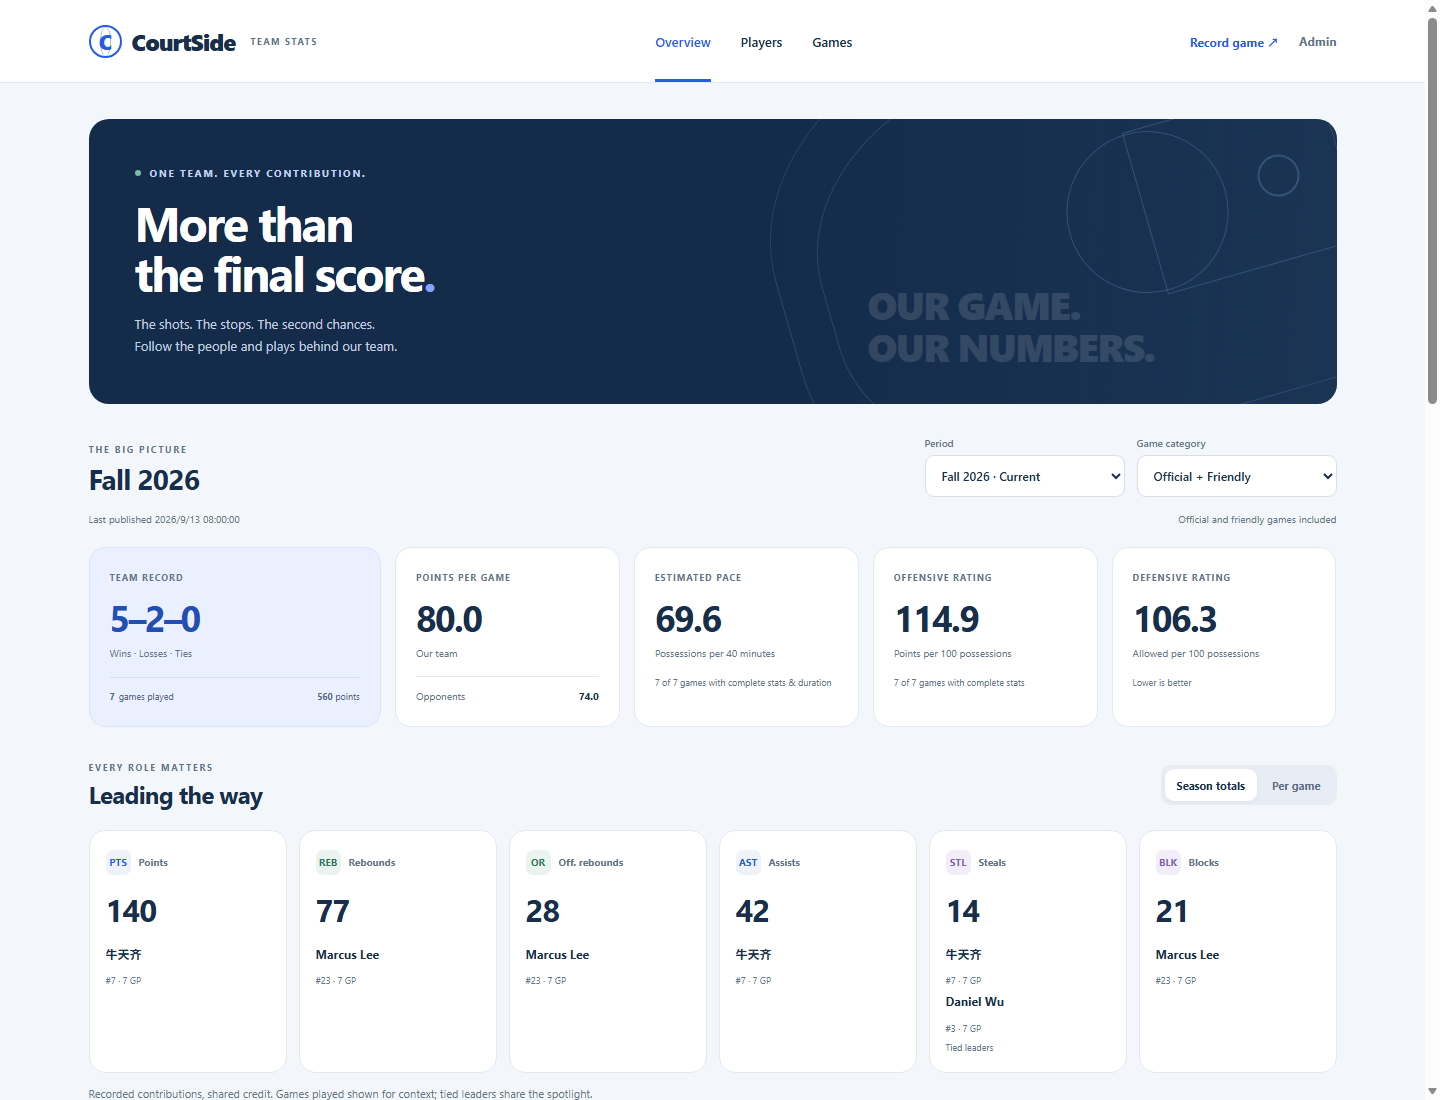
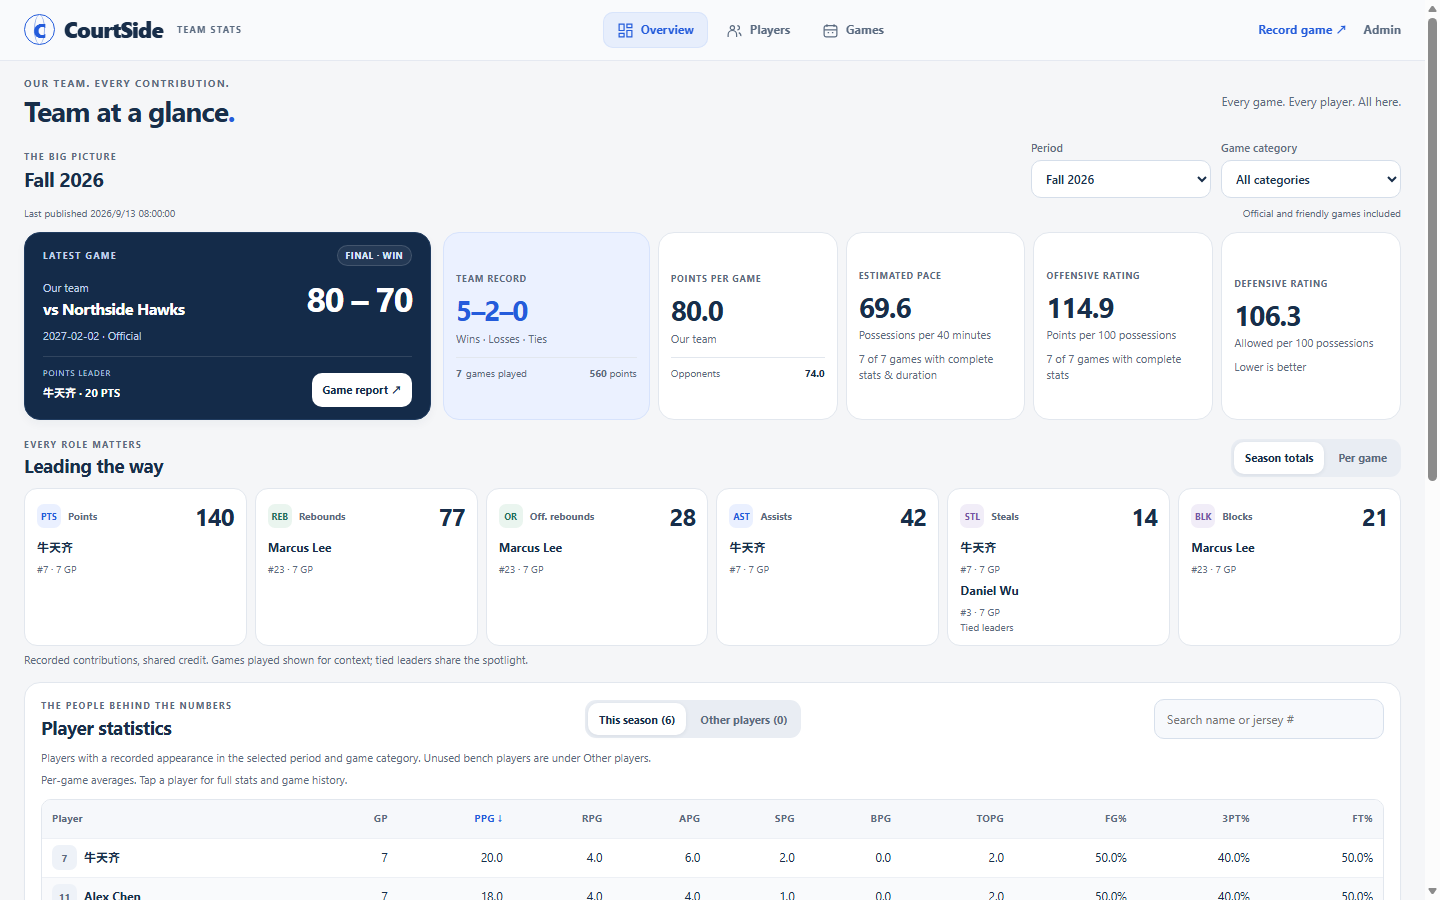
docs: refresh README with current interface screenshots and features

diff --git a/README.md b/README.md
@@ -20,7 +20,7 @@
 
 ## See the product
 
-**Public analytics:** season, year, and career filters; player leaders; searchable profiles; shooting splits; and game reports.
+**Public analytics:** season, year, and career filters; player leaders; searchable profiles; shooting splits; and individual game reports with team comparisons and player plus/minus.
 
 ![CourtSide dashboard showing season filters, team metrics, and player leader cards](docs/assets/dashboard.png)
 
@@ -29,11 +29,29 @@
 
 ![CourtSide tablet scorekeeper showing the current five players, stat buttons, clock, and event history](docs/assets/scorekeeper.png)
 
-The recorder supports 13 event types, both teams' statistics, substitutions, playing-time tracking, corrections, and CSV/JSON exports. Its standalone build works offline without external scripts or stylesheets.
+The recorder supports 13 event types, own-team player statistics, opponent team totals, substitutions, and playing-time tracking. Use 1×, 1.5×, 2×, or 4× game-clock speed while watching video on a separate device. New games start at 1×. Its standalone build works offline without external scripts or stylesheets.
 
 </details>
 
-*Screenshots use demonstration game data. They illustrate the implemented UI, not measured team performance.*
+<details>
+<summary><strong>View event corrections</strong></summary>
+
+![Current event correction dialog for editing a recorded play while retaining its original time and lineup](docs/assets/event-correction.png)
+
+Select a statistical event to edit or delete it without removing later valid plays. Resolve linked assists explicitly and restore deleted groups when needed. Corrections remain available after the game ends until the first result export finalizes the game; downloads can be repeated.
+
+</details>
+
+<details>
+<summary><strong>View an individual game report</strong></summary>
+
+![Game report with score, estimated metrics, team comparison, and a player box score including plus/minus](docs/assets/game-box.png)
+
+Public plus/minus appears only in individual game box scores. It uses the players on court for each score; historical games without complete lineup history show **—**. The recorder's postgame summary and analytical CSV also include FG%, 3P%, FT%, eFG%, TS%, and assist/turnover ratio.
+
+</details>
+
+*Screenshots refreshed September 26, 2026 using demonstration game data. They illustrate the implemented UI, not measured team performance.*
 
 ## Skills demonstrated
 
@@ -90,11 +108,15 @@ A pending upload retains its exact payload across retries. Ambiguous network fai
 
 Voided plays remain in the event log, and administrative changes preserve prior documents in an audit table. Participation snapshots carry a revision and content hash so stale or conflicting snapshots cannot silently replace newer playing-time data.
 
+Event corrections retain the original time and lineup so historical plus/minus can be recalculated. Schema v2 uploads preserve lineup snapshots alongside the event and participation records. Export finalization persists independently of upload success or failure.
+
 ### 4. Analytics that account for missing data
 
 Games played comes from participation, including zero-stat appearances and excluding unused bench players. Shooting percentages divide total makes by total attempts. Aggregate pace and ratings use eligible possessions and duration.
 
 Missing opponent detail stays unavailable rather than becoming zero. Partial playing time is labeled, and pace/efficiency estimates require sufficient recording coverage. [Read the metric definitions and eligibility rules.](docs/public-dashboard.md#metric-definitions)
+
+Pace requires reliable game duration. The first recorded game's unreliable duration is marked unavailable, excluding that game from both individual and aggregate pace while retaining its other statistics. Later games with recorded duration and complete statistics remain eligible.
 
 ### 5. Practical cloud and security boundaries
 
@@ -109,6 +131,8 @@ The deployment targets one team and free-tier hosting. Backend cold starts and o
 | `players` | One permanent player identity; current roster attributes. |
 | `games` | One game; stable ID, date, and opponent. |
 | `events` | One recorded play per `(game_id, event_id)`; historical player details and void status. |
+| `event_lineup_snapshots` | Lineup coverage for each recorded event, including unknown historical lineups. |
+| `event_lineup_members` | Own-team players on court for an event; supports historical plus/minus. |
 | `game_participation` | One game/player record; designated status, starts, appearances, and playing milliseconds. |
 | `participation_snapshots` | One participation revision per game; coverage and content hash. |
 | `remote_uploads` | One remote upload record per game; version, original hash, payload, and deletion state. |
@@ -161,7 +185,7 @@ The tests exercise data integrity and recovery behavior as well as calculations:
 
 ```sh
 # JavaScript unit tests
-node --test tests/engine.test.cjs tests/team.test.cjs tests/remote.test.cjs tests/analytics.test.cjs
+node --test tests/*.test.cjs
 
 # Python validation, API, publication, and analytics tests
 python -m unittest discover -s tests -p "test_*.py" -v
@@ -169,6 +193,7 @@ python -m unittest discover -s tests -p "test_*.py" -v
 # Build the standalone UI and exercise it in a real browser
 node build.cjs
 node tests/browser-smoke.cjs
+node tests/browser-recording-improvements.cjs
 ```
 
 Python discovery skips database integration cases unless their test environment is configured. Run `python tests/run_mysql_tests.py` for the isolated database suite; it requires an installed MySQL server binary (`MYSQLD_PATH`). Browser tests use Microsoft Edge on Windows or a Chromium executable set through `EDGE_PATH`. See the [deployment guide](docs/remote-deployment.md#working-locally) for hosted browser-test build commands. Real iPad Safari/touch validation remains a separate device check.
